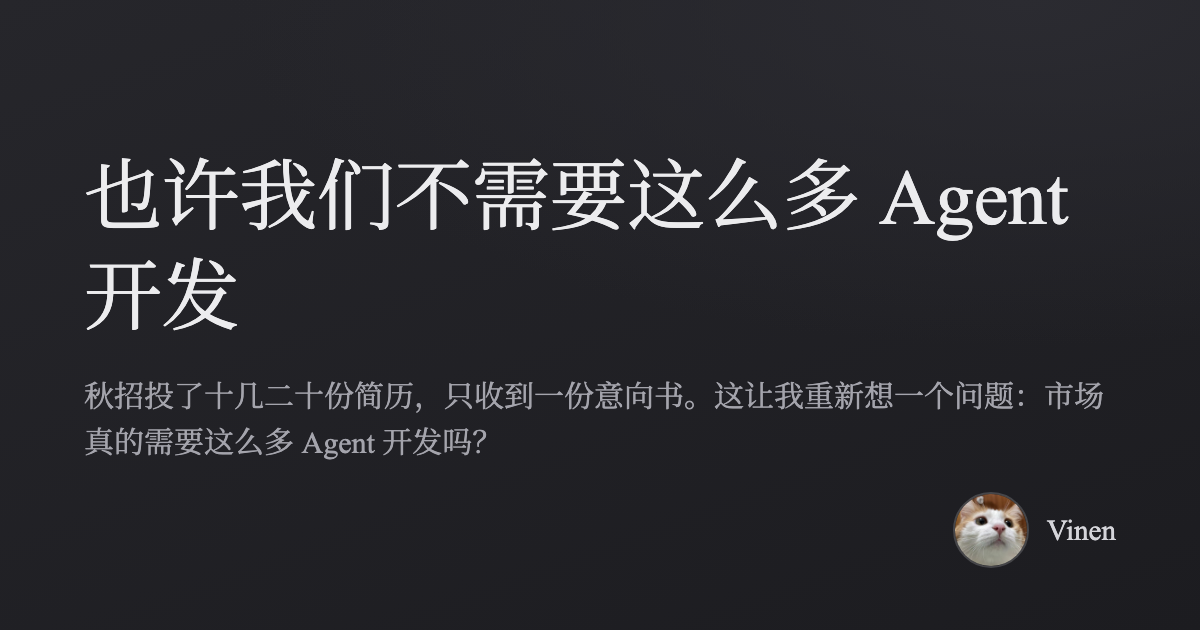
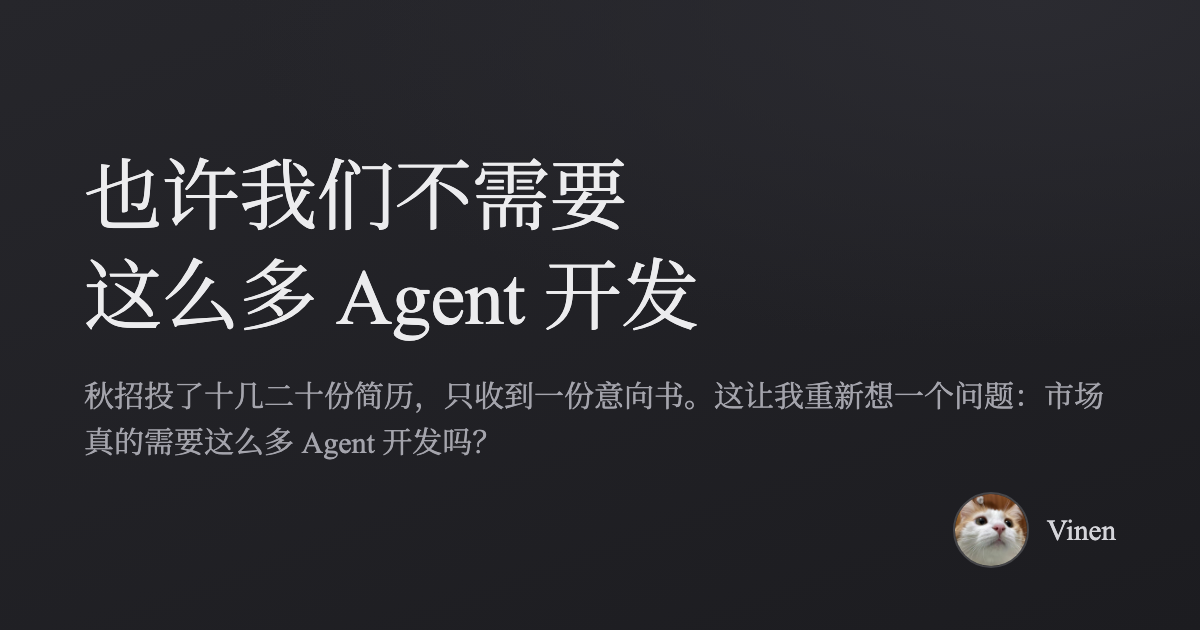
Control card title line breaks with ogTitle

diff --git a/posts/2026-10-do-we-need-so-many-agent-engineers/index.md b/posts/2026-10-do-we-need-so-many-agent-engineers/index.md
@@ -1,5 +1,6 @@
 ---
 title: "也许我们不需要这么多 Agent 开发"
+ogTitle: "也许我们不需要|这么多 Agent 开发"
 date: 2026 年 10 月 28 日
 footerLine: "Vinen's Blog — 关于 Agent、职业选择 · 写于 2026 年 10 月 28 日"
 lede: "秋招投了十几二十份简历，只收到一份意向书。这让我重新想一个问题：市场真的需要这么多 Agent 开发吗？"
